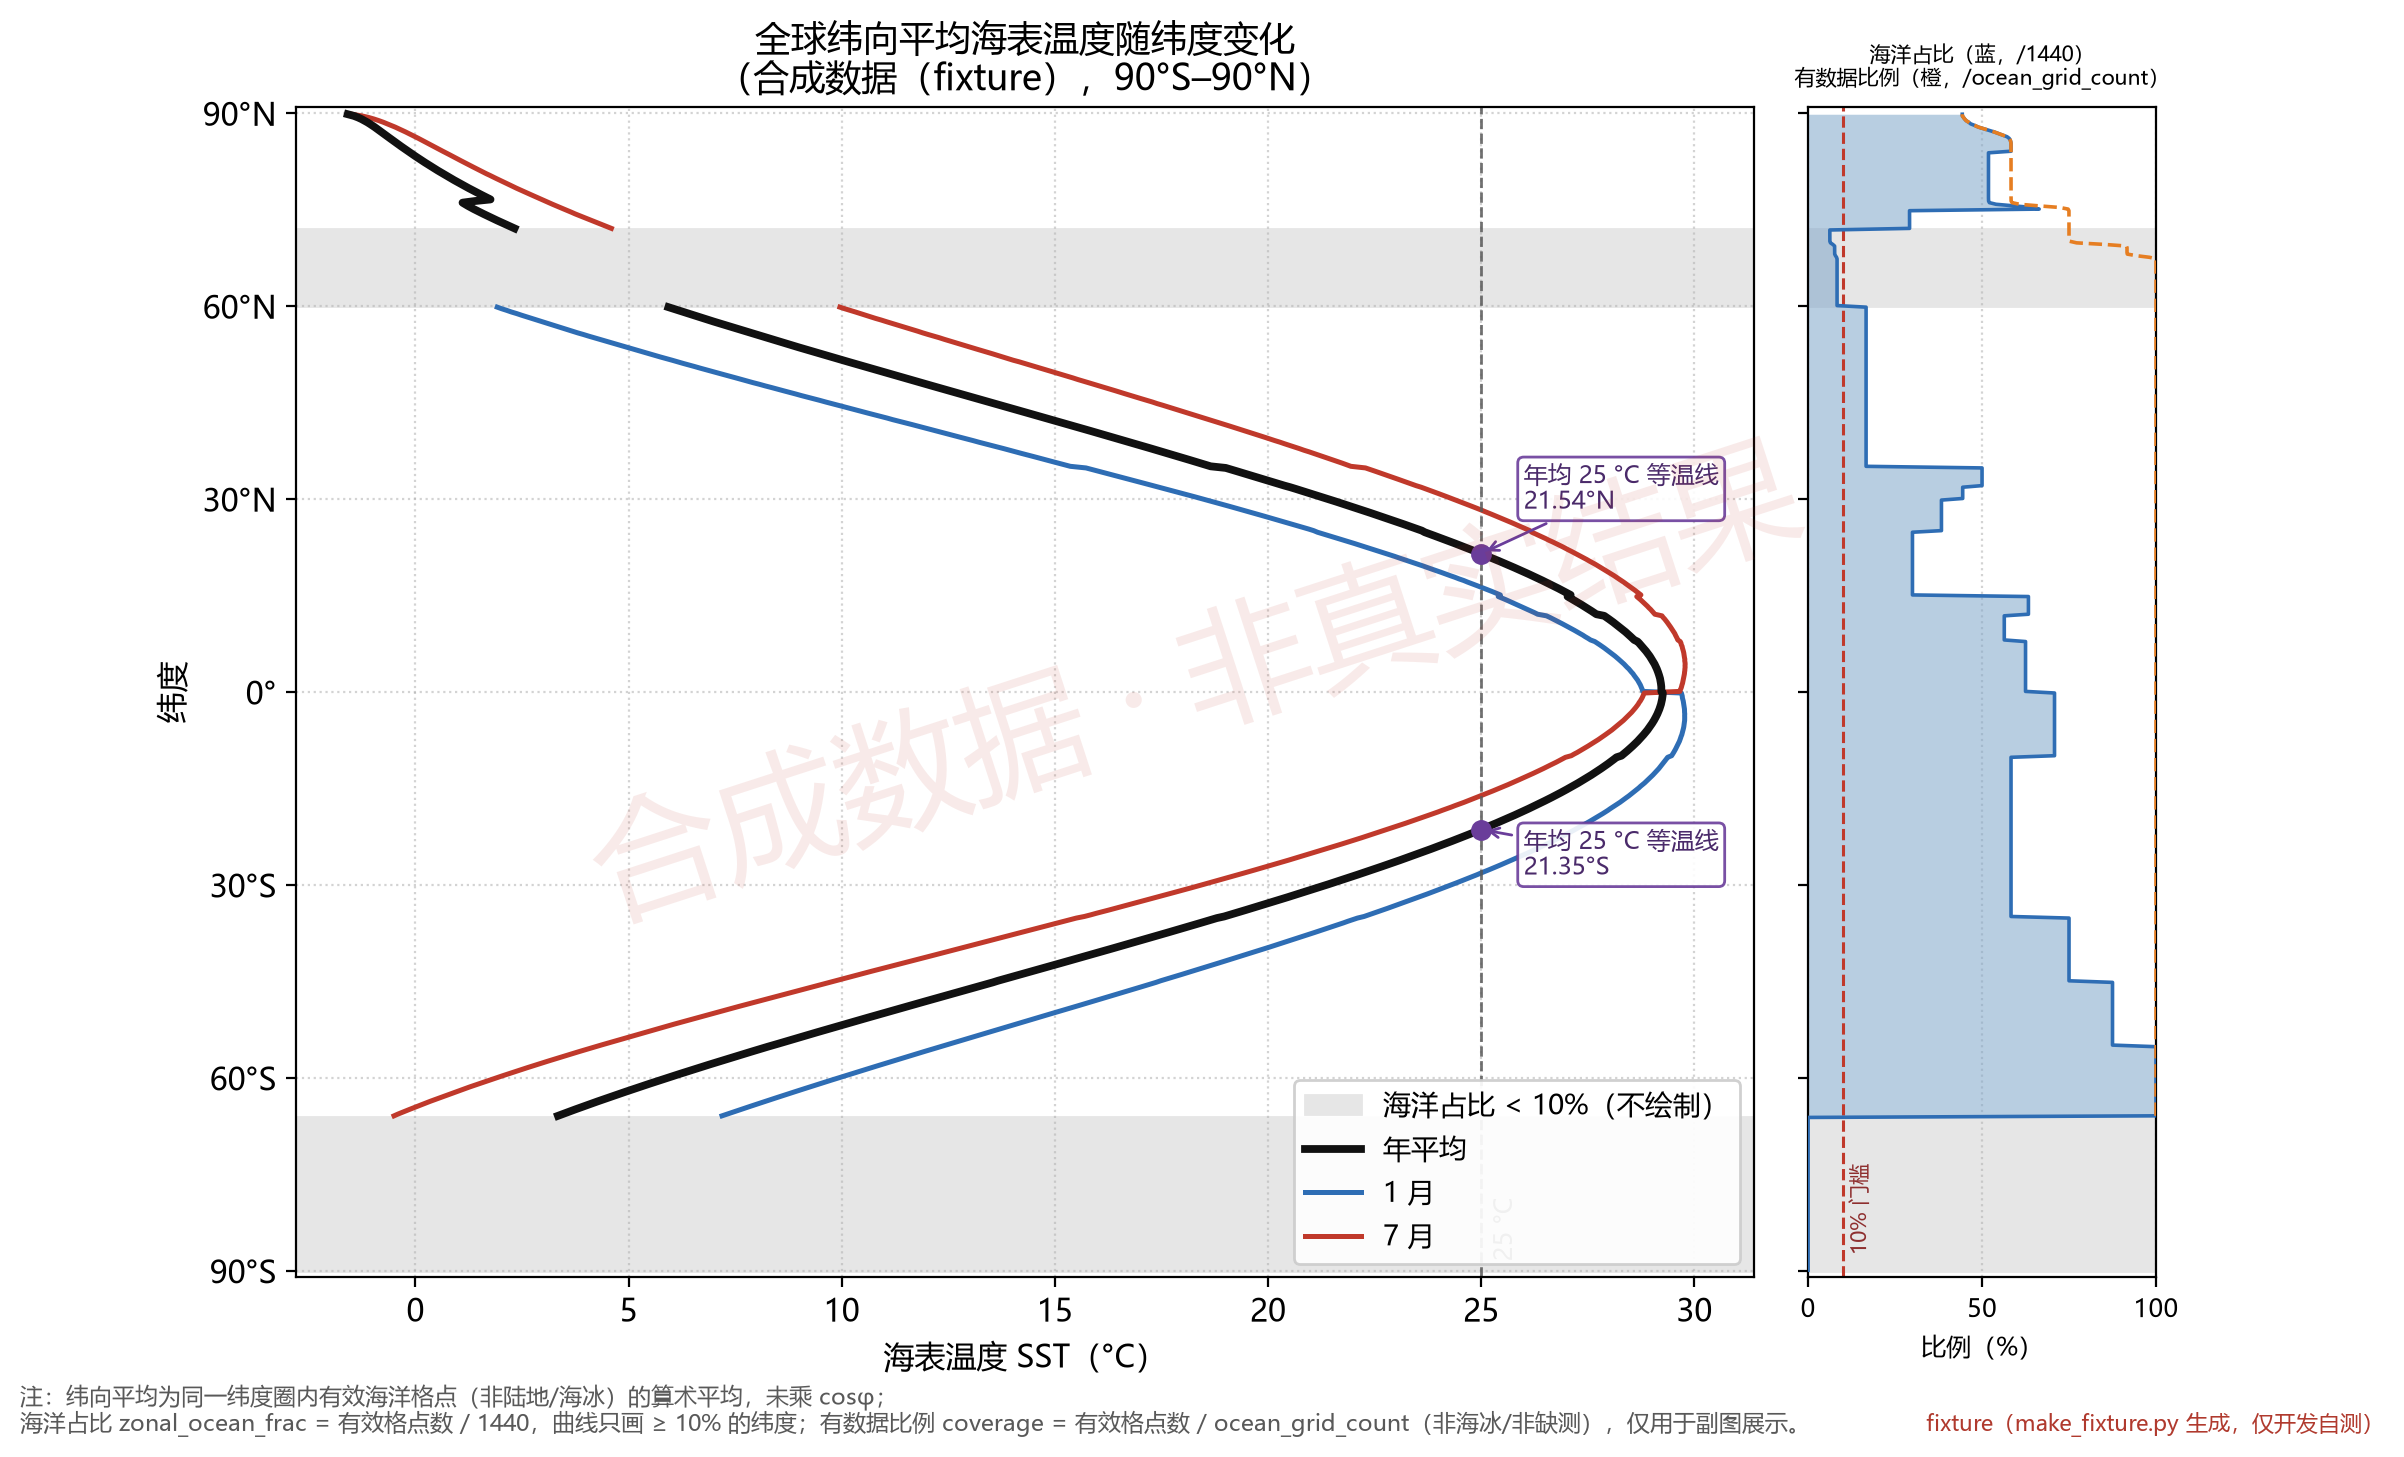
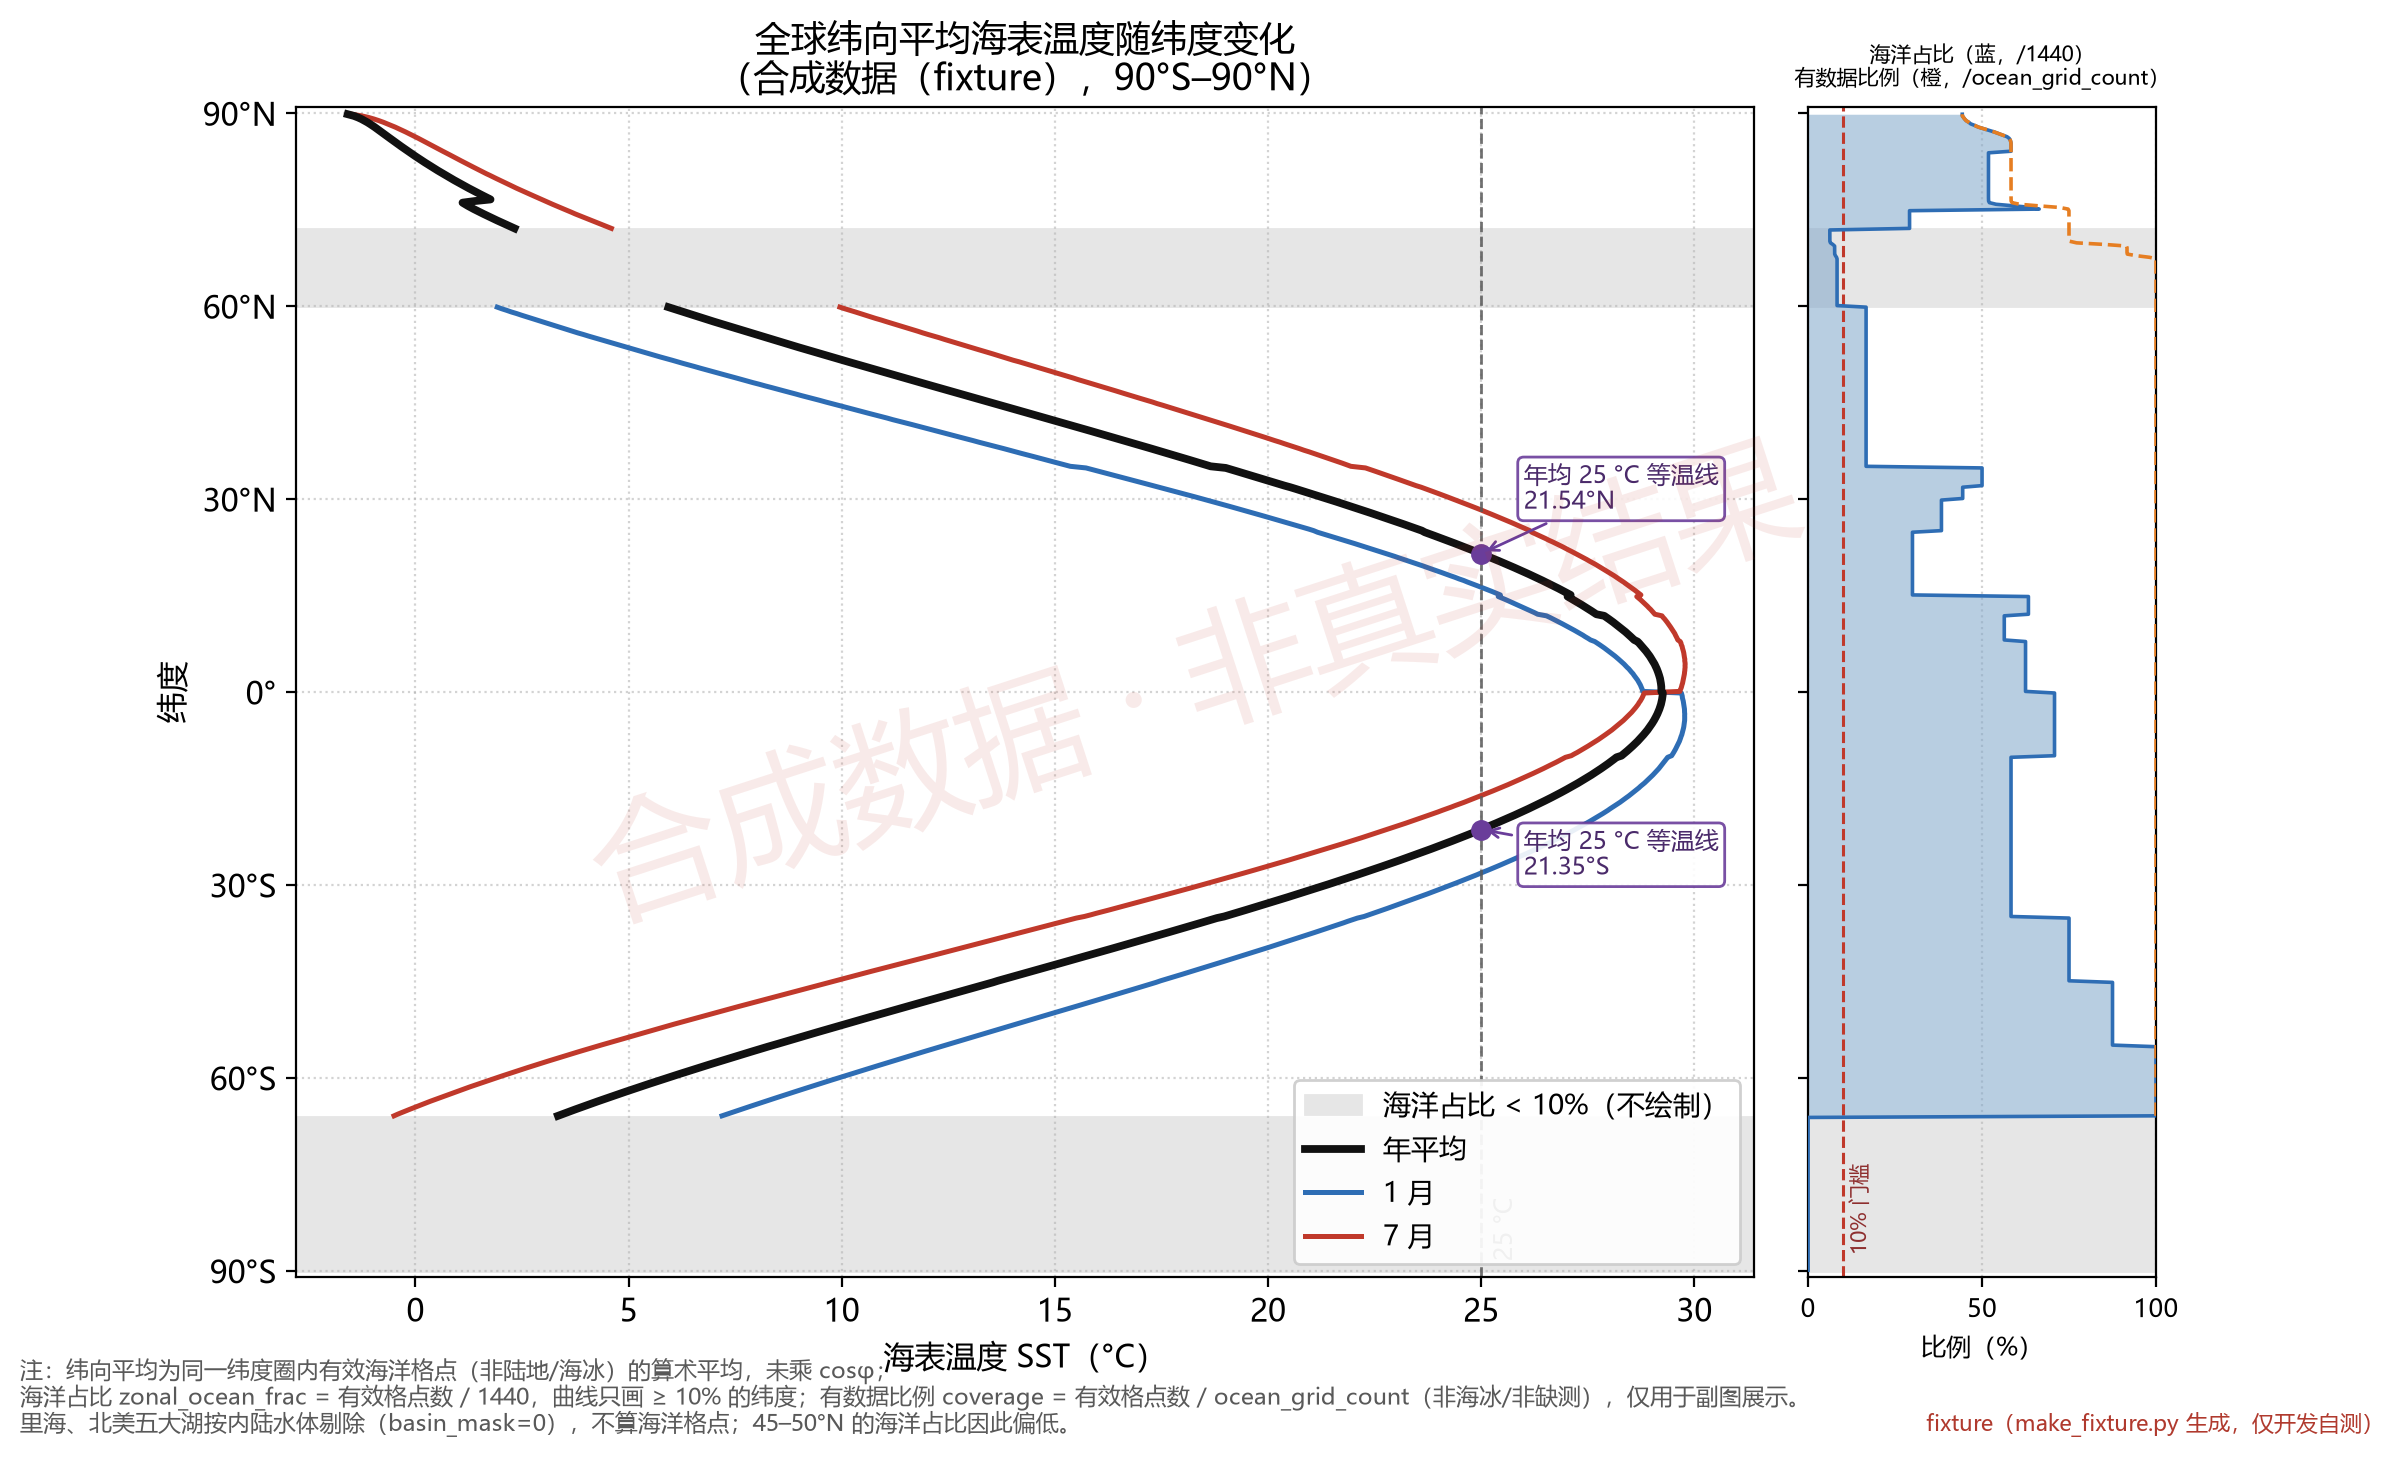
fix: raw 重算显式按内陆水体掩膜剔除
- verify.load_ocean_mask 兼容 basin_mask 与 basin_id 两种键
- 单测新增「掩膜剔除格点」用例（里海/五大湖场景），扩到 15 项
- 全球廓线与地图图注注明里海、北美五大湖按内陆水体剔除（basin_mask=0）
- README 记录 raw 中的内陆水体温度是按掩膜排除、不是缺失，并说明 45–50°N 海洋占比会偏低

Changed region(s): [[0.0, 0.9266, 0.7488, 0.9883]]

diff --git a/tests/test_verify.py b/tests/test_verify.py
@@ -100,6 +100,21 @@ class TestRawRecompute(unittest.TestCase):
         np.testing.assert_allclose(counts[0], np.full(4, 4.0))
         self.assertEqual(counts.shape, (12, 4))
 
+    def test_mask_excludes_non_ocean_cells(self) -> None:
+        """basin_mask=0 的格点（如里海/五大湖）必须从 raw 纬向平均中剔除。"""
+        lats = np.array([-0.375, -0.125, 0.125, 0.375])
+        lons = np.array([0.125, 0.375, 0.625, 0.875])
+        raw_dir = scratch_dir("mask_raw") / "raw"
+        raw_dir.mkdir()
+        _write_tiny_raw(raw_dir, lats, lons)
+        mask = np.zeros((4, 4), dtype=bool)
+        mask[:, :2] = True  # 只保留前两个经度格点
+        files = verify.list_raw_files(raw_dir)
+        _, clim, annual, counts = verify.recompute_zonal_from_raw(files, ocean_mask=mask)
+        np.testing.assert_allclose(clim[0], np.full(4, 1.05), atol=1e-12)
+        np.testing.assert_allclose(annual, np.full(4, 6.55), atol=1e-12)
+        np.testing.assert_allclose(counts[0], np.full(4, 2.0))
+
     def test_full_60_timestep_check_passes(self) -> None:
         """用 60 个「720 纬圈 × 1 经度」的小文件跑通 check_raw_recompute 全流程。"""
         lats = np.round(verify.LAT_FIRST + verify.LAT_STEP * np.arange(verify.N_LAT_GLOBAL), 3)

diff --git a/scripts/plot.py b/scripts/plot.py
@@ -492,7 +492,8 @@ def plot_global_profile(ctx: dict, cov_min: float) -> Path:
         0.005,
         "注：纬向平均为同一纬度圈内有效海洋格点（非陆地/海冰）的算术平均，未乘 cosφ；\n"
         f"海洋占比 zonal_ocean_frac = 有效格点数 / {N_LON_GLOBAL}，曲线只画 ≥ {cov_min:.0%} 的纬度；"
-        "有数据比例 coverage = 有效格点数 / ocean_grid_count（非海冰/非缺测），仅用于副图展示。",
+        "有数据比例 coverage = 有效格点数 / ocean_grid_count（非海冰/非缺测），仅用于副图展示。\n"
+        "里海、北美五大湖按内陆水体剔除（basin_mask=0），不算海洋格点；45–50°N 的海洋占比因此偏低。",
         fontsize=8.3,
         color="0.35",
         va="bottom",
@@ -663,7 +664,7 @@ def plot_map(ctx: dict, _cov_min: float = DEFAULT_COVERAGE_MIN) -> Path:
         0.01,
         0.005,
         "注：未引入 cartopy，采用等经纬（Plate Carrée）投影的 pcolormesh；"
-        f"色标固定 −2～32 °C；{boundary_note}。",
+        f"色标固定 −2～32 °C；{boundary_note}；里海、北美五大湖按内陆水体剔除（basin_mask=0）。",
         fontsize=8.4,
         color="0.35",
         va="bottom",

diff --git a/scripts/verify.py b/scripts/verify.py
@@ -171,6 +171,10 @@ def load_ocean_mask(data_dir: Path) -> tuple[np.ndarray | None, str]:
                     mask = npz["basin_mask"].astype(np.uint8) > 0
                     if mask.shape == (N_LAT_GLOBAL, N_LON_GLOBAL):
                         return mask, f"{name}::basin_mask"
+                if "basin_id" in npz.files:
+                    mask = npz["basin_id"].astype(np.int16) >= 0
+                    if mask.shape == (N_LAT_GLOBAL, N_LON_GLOBAL):
+                        return mask, f"{name}::basin_id"
         except Exception:  # noqa: BLE001
             continue
     return None, "none"

diff --git a/README.md b/README.md
@@ -164,9 +164,9 @@
 
 | 文件 | 像素 | 体积 |
 | --- | --- | --- |
-| `global_sst_vs_latitude.png` | 2404 × 1457 | 364 KB |
+| `global_sst_vs_latitude.png` | 2404 × 1457 | 378 KB |
 | `basins_sst_vs_latitude.png` | 3227 × 1421 | 417 KB |
-| `global_sst_map.png` | 2376 × 1187 | 293 KB |
+| `global_sst_map.png` | 2376 × 1187 | 300 KB |
 | `lat_month_heatmap.png` | 2482 × 1318 | 220 KB |
 | `indian_vs_global.png` | 2364 × 1630 | 249 KB |
 
@@ -179,8 +179,10 @@
 1. **数值复算**：读取 `data/raw/`（或 `--raw-dir`）的 60 个 `csv.gz`，独立重算「逐时次纬向平均 →
    同月多年平均 → 12 月等权年均」，抽 **8 个纬度（-70/-45/-20/0/20/40/60/75°）× 1 月、7 月** 与
    `zonal_mean_basins.csv` 的 `global` 行按纬度对齐，容差 **0.01 °C**；年均同纬度一并比对。
-   统计域用 `basin_mask.npz::basin_mask`（剔除内陆湖泊，否则里海等封闭水域会让 45°N 的纬向平均偏 0.3 °C），
-   **SST 均值本身仍由 `verify.py` 从 raw 独立计算**；月度列缺失时自动只比年均。
+   统计域用 `basin_mask.npz::basin_mask`（或 `basin_id`）剔除**里海（719 格）与北美五大湖（531 格）**
+   等内陆水体，否则 45–50°N 的纬向平均会系统性偏高 0.3 °C 左右。raw 文件里仍有这些水体的原始温度，
+   是**按掩膜排除**、不是数据缺失；**SST 均值本身仍由 `verify.py` 从 raw 独立计算**。
+   月度列缺失时自动只比年均。
 2. **结构性检查**：720 行、0.25° 步长、纬度单调；新增列自洽——
    `coverage ≈ valid_count / ocean_grid_count`、`zonal_ocean_frac ≈ valid_count / 1440`、
    `cov_MM` 与 `sst_MM` 同 NaN 模式（均容差 **0.002**）；海洋值不超出 −2～35 °C、
@@ -213,8 +215,8 @@ fixture 自测：`verify.py --data-dir .tmp/fixture --skip-online` →
 `pass_with_skips（通过 4 / 失败 0 / 跳过 2）`，退出码 0；结构性检查覆盖
 `coverage = valid/ocean_grid_count`、`zonal_ocean_frac = valid/1440`、`cov_MM`/`sst_MM` NaN 模式、
 按纬度对齐的 basins 行对齐与缺失行断言。
-单元测试 14 项（等温线双交点、印度洋回归、raw 重算往返、60 时次全流程、覆盖率/海洋占比/NaN 模式
-自洽与破坏检测、basins 缺行断言、无月度键网格）全部通过。
+单元测试 15 项（等温线双交点、印度洋回归、raw 重算往返/掩膜剔除、60 时次全流程、
+覆盖率/海洋占比/NaN 模式自洽与破坏检测、basins 缺行断言、无月度键网格）全部通过。
 
 ## 8. 关键结果（待真实数据填入）
 
@@ -229,6 +231,9 @@ fixture 自测：`verify.py --data-dir .tmp/fixture --skip-online` →
 
 ## 9. 已知局限
 
+- **内陆水体按掩膜剔除**：里海（719 格）与北美五大湖（531 格）在 `basin_mask` 中为 0（陆地），
+  raw 中虽有非 NaN 温度但不参与纬向平均；因此 45–50°N 的 `zonal_ocean_frac` 会比不剔除时低，
+  这是正确口径，不是异常。
 - **10% 海洋占比阈值与极地海冰**：北冰洋冬季、南大洋高纬在 60 个时次平均后有效海洋格点可能低于 10%，
   这些纬度不绘制；阈值附近结果对阈值敏感。注意这里用的是 `zonal_ocean_frac = valid_count/1440`，
   不是 `coverage`（有数据比例）。
